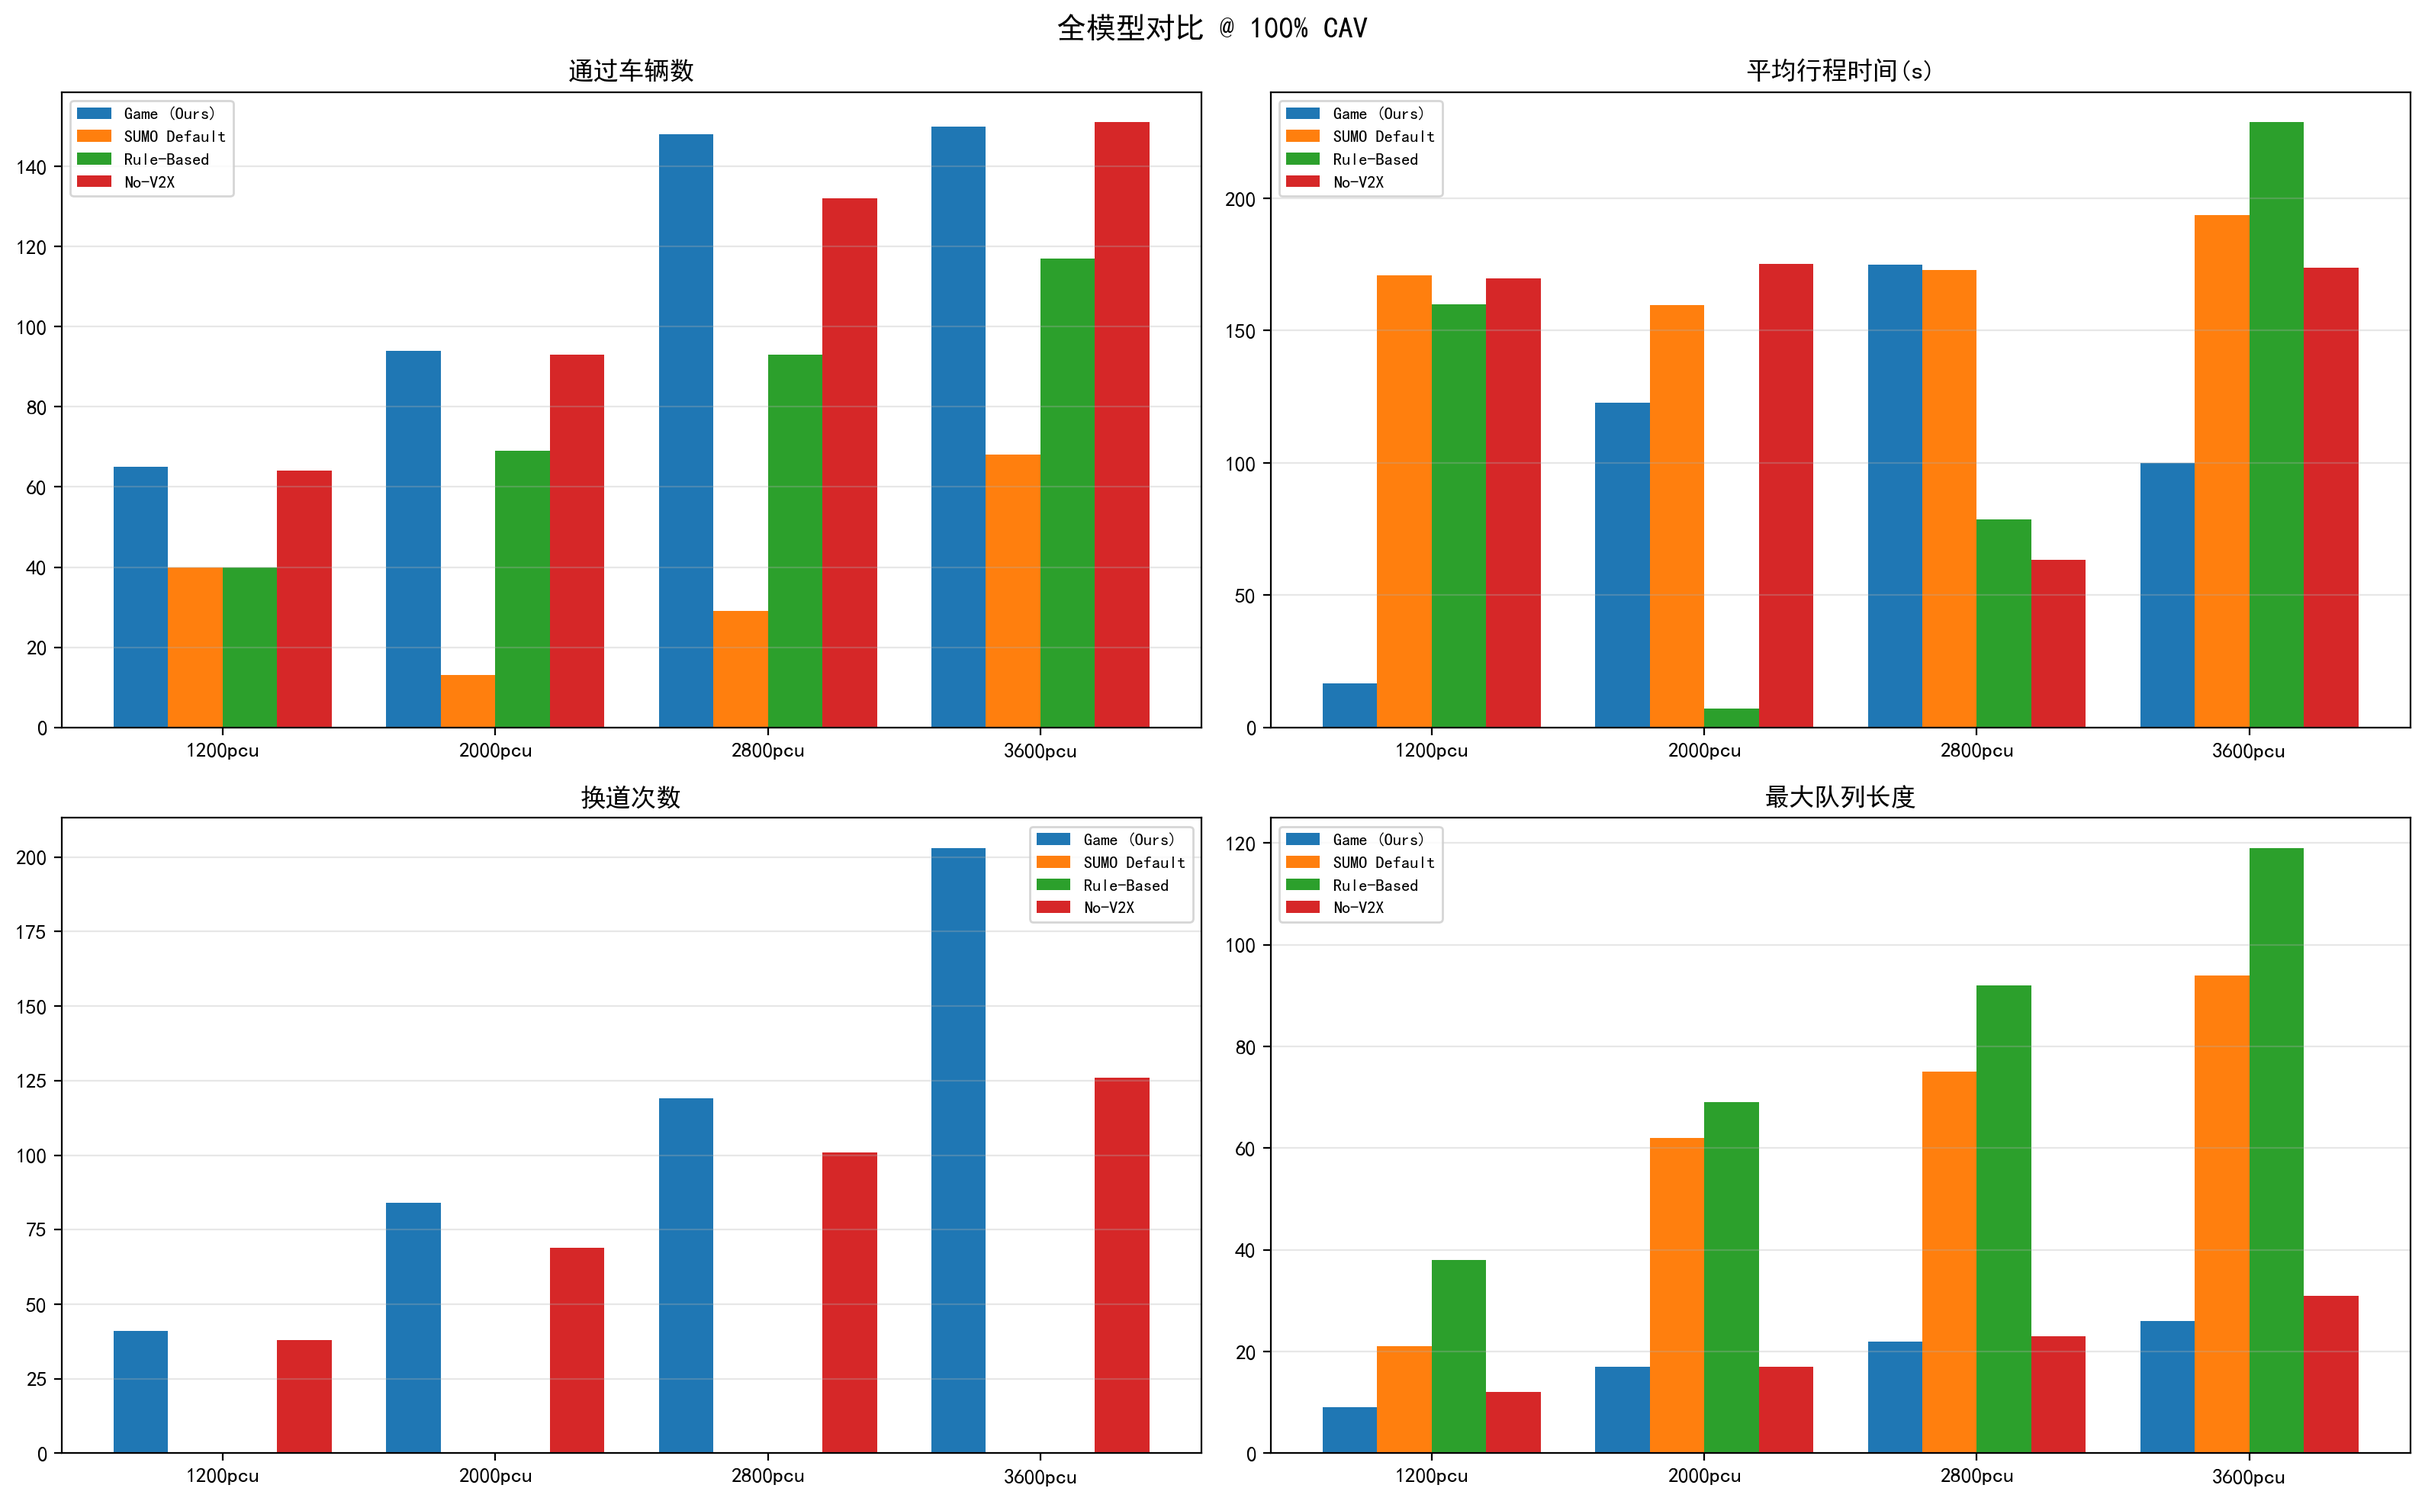
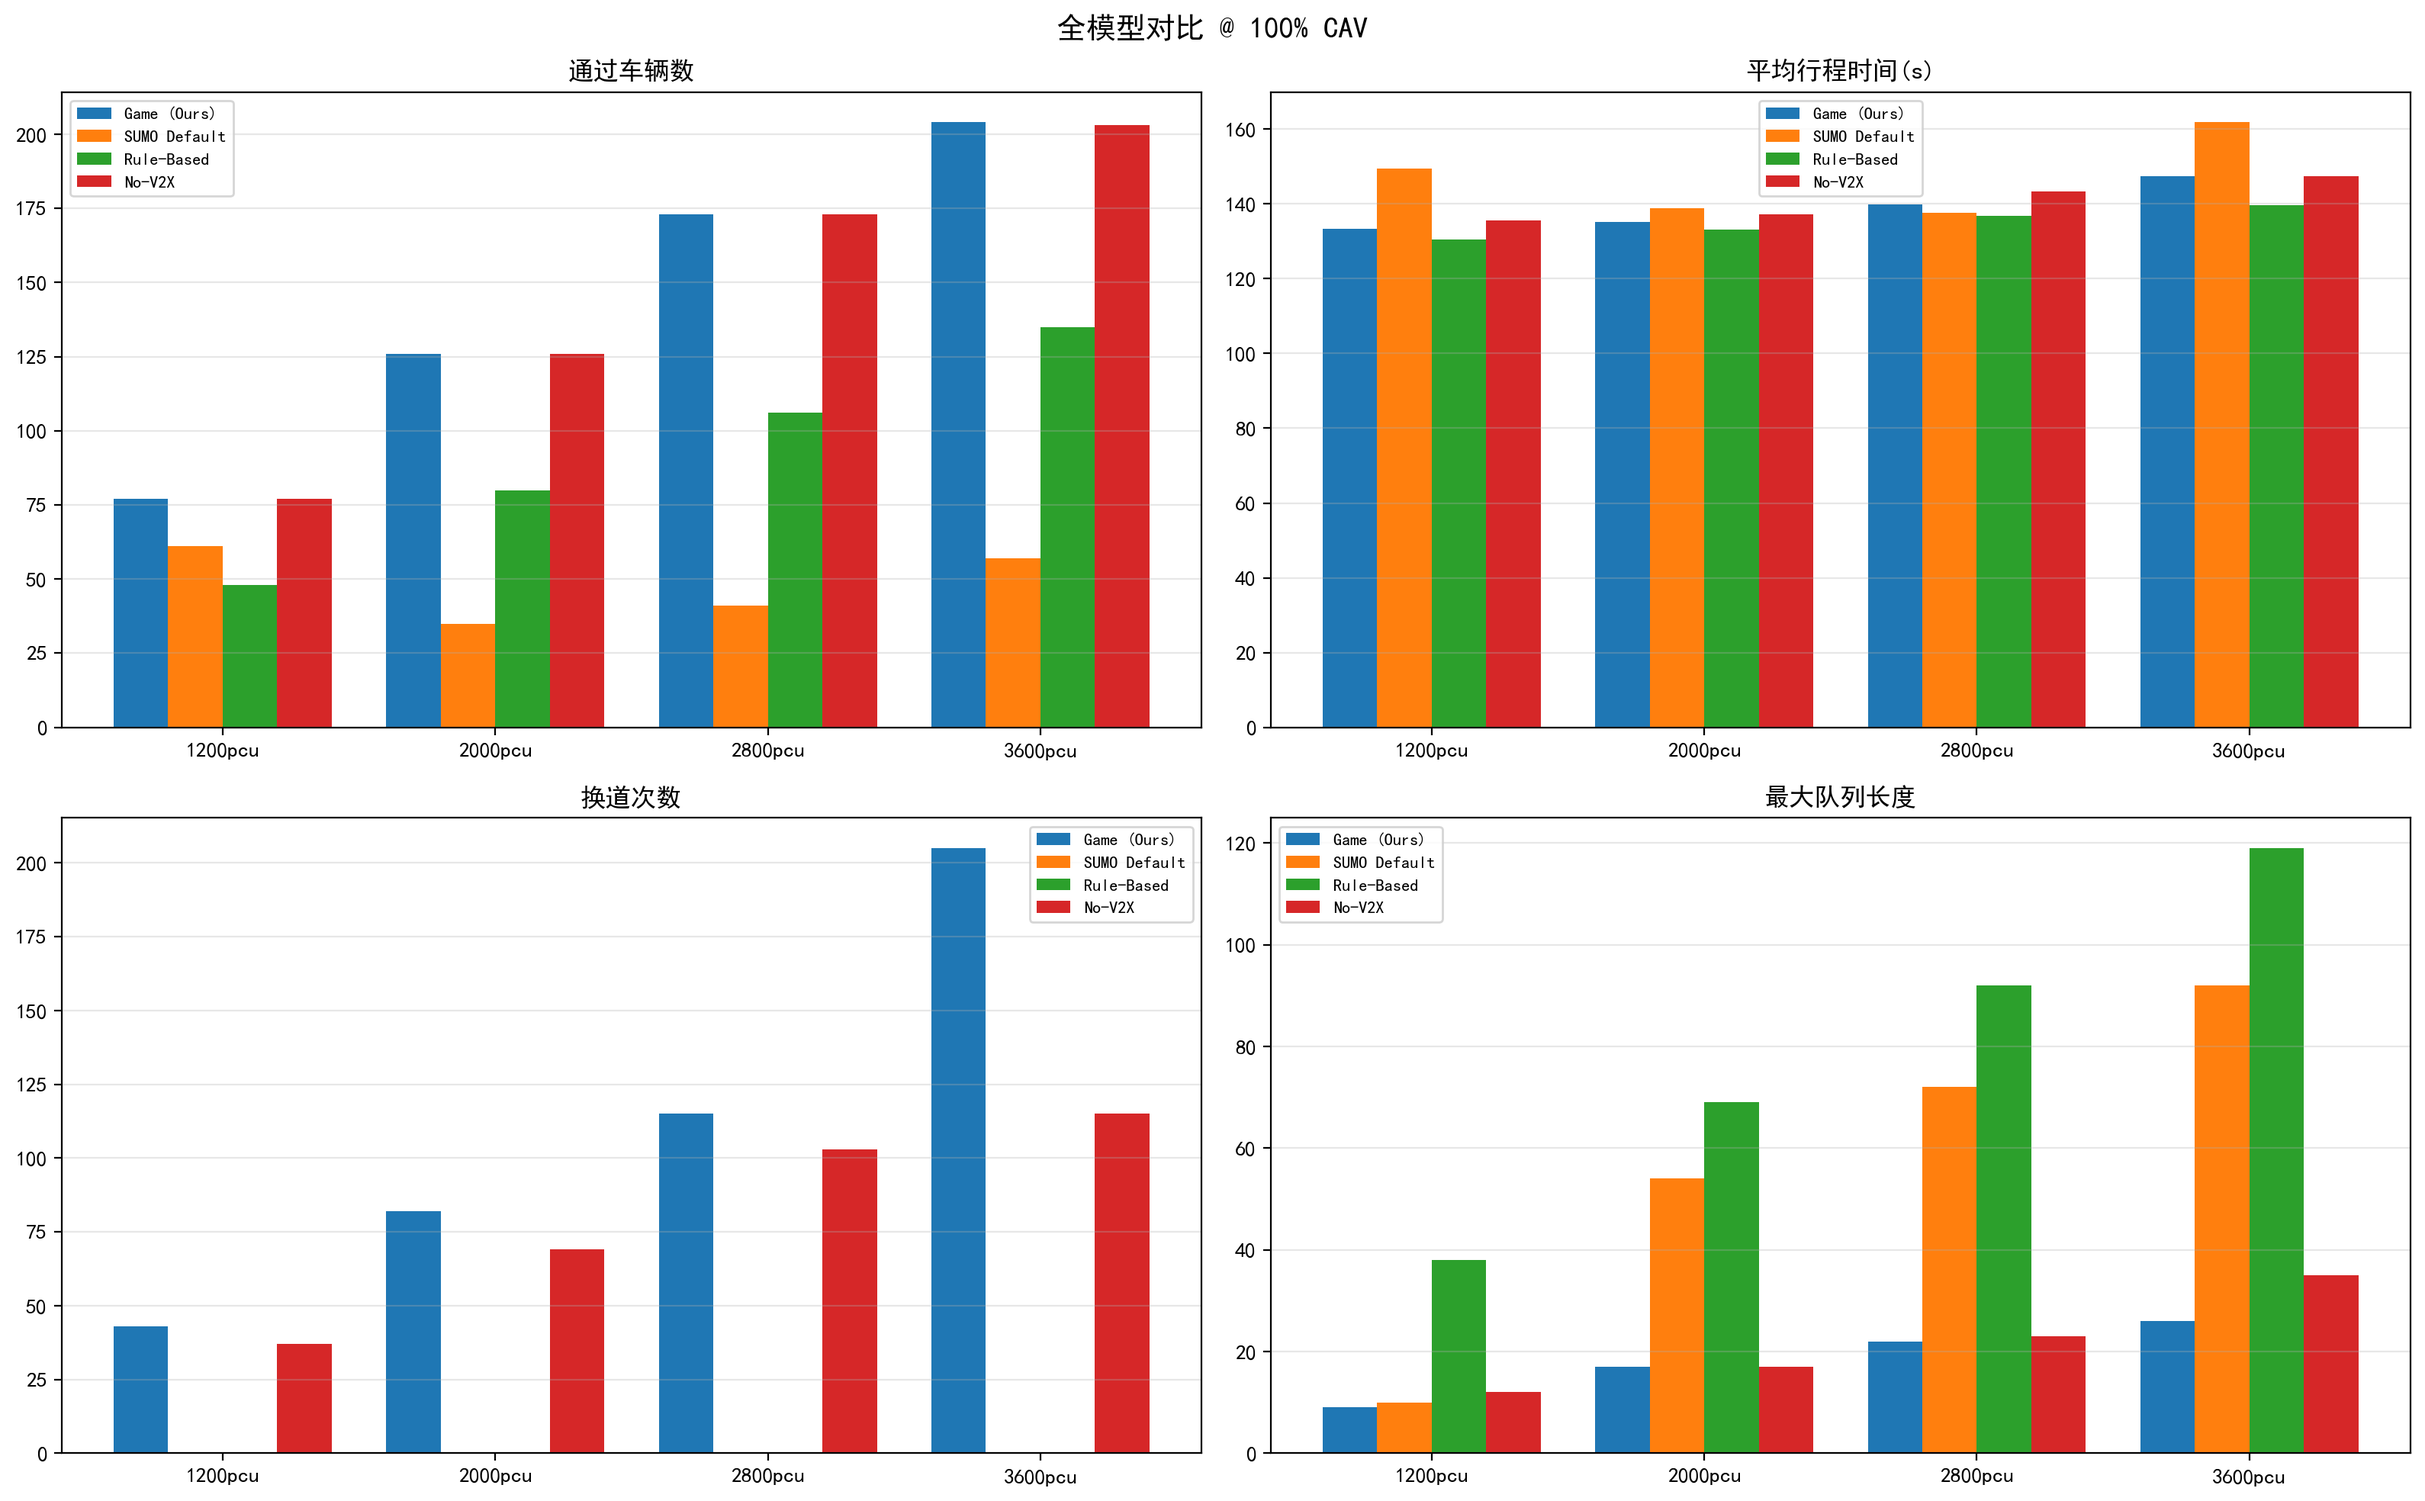
更新图表：适配 parallel_v5 数据，换道活跃度折线图替代 Manual vs IRL

diff --git a/run_plot_results.py b/run_plot_results.py
@@ -17,18 +17,16 @@ def get_density(s):
         if d in str(s): return int(d)
     return 0
 
-def load_all_results(base='results/parallel_final'):
-    models = {'game':'Game (Ours)','sumo':'SUMO Default','rule':'Rule-Based','nov2x':'No-V2X'}
+def load_all_results(base='results/parallel_v5'):
+    models = ['Game (Ours)','SUMO Default','Rule-Based','No-V2X']
     all_rows = []
-    for key, mname in models.items():
-        for w in ['manual','irl']:
-            d = os.path.join(base, f'{key}_{w}')
-            csvs = sorted(glob.glob(os.path.join(d, 'baseline_results_*.csv')))
-            if not csvs: continue
-            df = pd.read_csv(csvs[-1])
-            df['model_name'] = mname
-            df['weight_name'] = 'Manual' if w=='manual' else 'IRL'
-            all_rows.append(df)
+    for mname in models:
+        d = os.path.join(base, mname)
+        csvs = sorted(glob.glob(os.path.join(d, 'baseline_results_*.csv')))
+        if not csvs: continue
+        df = pd.read_csv(csvs[-1])
+        df['model_name'] = mname
+        all_rows.append(df)
     return pd.concat(all_rows, ignore_index=True) if all_rows else pd.DataFrame()
 
 df = load_all_results()
@@ -37,14 +35,13 @@ df['density'] = df['scenario'].apply(get_density)
 outdir = 'results/figures'
 os.makedirs(outdir, exist_ok=True)
 
-dm = df[df['weight_name']=='Manual']
 models = ['Game (Ours)', 'SUMO Default', 'Rule-Based', 'No-V2X']
 pens_order = ['0%CAV','10%CAV','30%CAV','50%CAV','70%CAV','100%CAV']
 densities = [1200,2000,2800,3600]
 colors = ['#1f77b4','#ff7f0e','#2ca02c','#d62728']
 
 # === 图1: 渗透率扫描热图 ===
-game = dm[dm['model_name']=='Game (Ours)']
+game = df[df['model_name']=='Game (Ours)']
 fig, axes = plt.subplots(1, 2, figsize=(14, 5))
 for idx, metric in enumerate(['total_vehicles', 'max_queue']):
     data = np.zeros((len(pens_order), len(densities)))
@@ -72,7 +69,7 @@ plt.close()
 print('1/4: penetration_sweep.png')
 
 # === 图2: 全模型对比 ===
-all100 = dm[dm['pen']=='100%CAV']
+all100 = df[df['pen']=='100%CAV']
 fig, axes = plt.subplots(2, 2, figsize=(16, 10))
 metrics = [('total_vehicles', '通过车辆数'), ('avg_travel_time', '平均行程时间(s)'),
            ('lc_cnt', '换道次数'), ('max_queue', '最大队列长度')]
@@ -109,22 +106,20 @@ plt.savefig(os.path.join(outdir, 'penetration_throughput.png'), dpi=200, bbox_in
 plt.close()
 print('3/4: penetration_throughput.png')
 
-# === 图4: Manual vs IRL ===
-game_all = df[df['model_name']=='Game (Ours)']
-game100 = game_all[game_all['pen']=='100%CAV']
-fig, ax = plt.subplots(figsize=(10, 5))
-x = np.arange(len(densities)); w = 0.3
-for wi, weight in enumerate(['Manual', 'IRL']):
-    gw = game100[game100['weight_name']==weight]
-    vals = [float(gw[gw['density']==d]['total_vehicles'].values[0]) if len(gw[gw['density']==d]) else 0 for d in densities]
-    ax.bar(x + wi*w, vals, w, label=weight, alpha=0.8)
-ax.set_xticks(x + w/2)
-ax.set_xticklabels([f'{d}pcu/h' for d in densities])
-ax.set_title('Game (Ours) Manual vs IRL @ 100% CAV', fontsize=13)
-ax.set_ylabel('通过车辆数'); ax.legend(); ax.grid(axis='y', alpha=0.3)
+# === 图4: 换道活跃度渗透率折线图 ===
+fig, ax = plt.subplots(figsize=(12, 6))
+for d in densities:
+    r = game[game['density']==d].sort_values('pen')
+    if len(r):
+        vals = r['lc_cnt'].tolist()
+        ax.plot(range(len(vals)), vals, 'o-', label=f'{d}pcu/h', linewidth=2)
+ax.set_xticks(range(len(pens_order)))
+ax.set_xticklabels([p.replace('%CAV','') for p in pens_order])
+ax.set_xlabel('CAV 渗透率 (%)'); ax.set_ylabel('换道次数')
+ax.set_title('Game (Ours) 渗透率 vs 换道活跃度'); ax.legend(); ax.grid(alpha=0.3)
 plt.tight_layout()
-plt.savefig(os.path.join(outdir, 'manual_vs_irl.png'), dpi=200, bbox_inches='tight')
+plt.savefig(os.path.join(outdir, 'penetration_lc.png'), dpi=200, bbox_inches='tight')
 plt.close()
-print('4/4: manual_vs_irl.png')
+print('4/4: penetration_lc.png')
 
 print(f'\n图片已保存至 {outdir}/')
